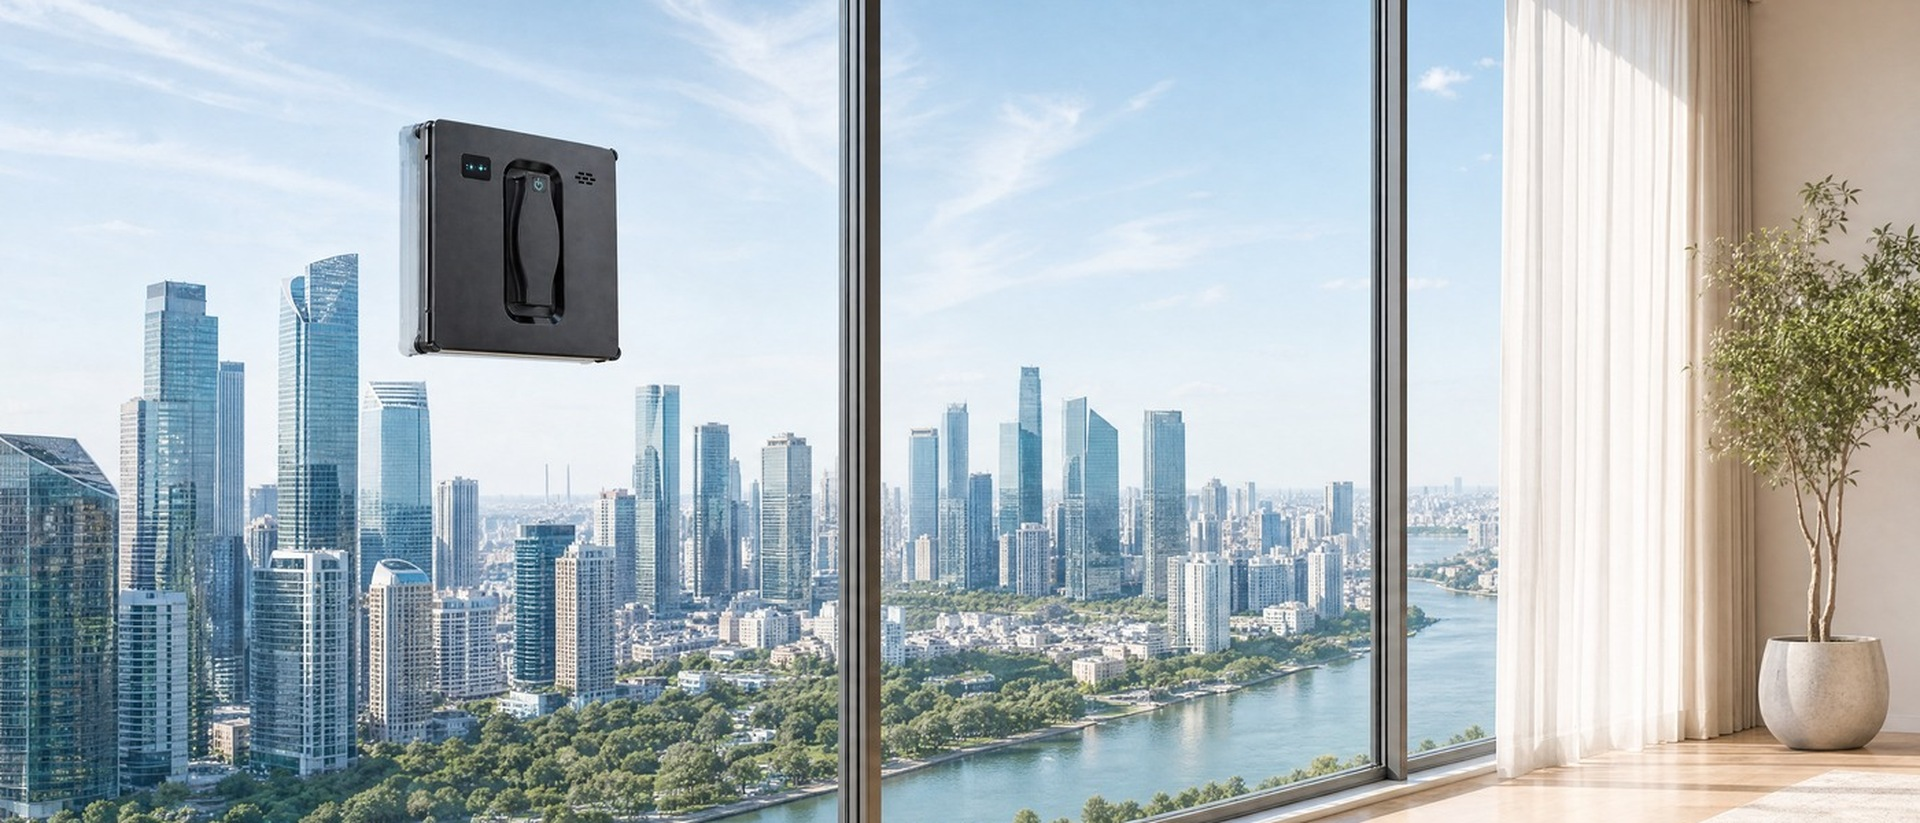
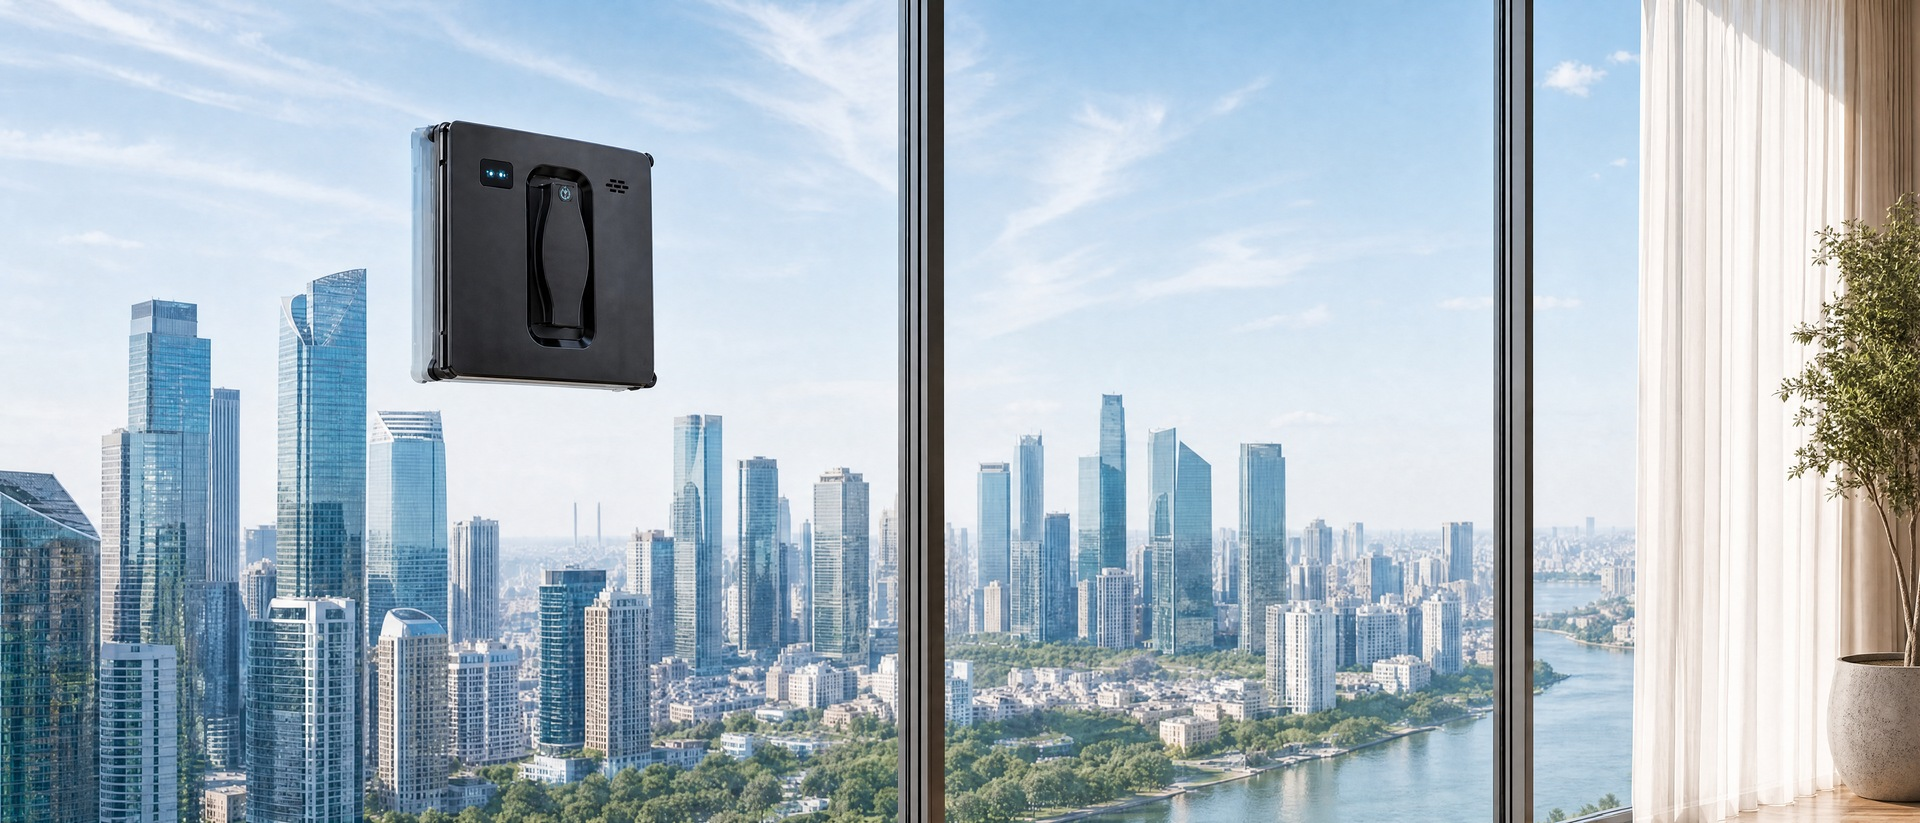
fix(slides): слайд 3 ПК - детализация робота + план ближе на 10%
Гена: вид ок, можно +10%, но детализация робота плохая (следствие апскейла кропа).
Пайплайн: кроп реалистичного исходника ещё на 10% туже -> прогон через gpt_image_2
4k с фиксацией композиции и размера робота, промпт на чёткий премиум-рендер.
Робот теперь резкий: фактура, ручка, кнопка, индикаторы, окантовка, гусеницы.
Размер робота НЕ раздут. Ресайз 1920x823. В тему Shopify + ?v=.

diff --git a/preview-live.html b/preview-live.html
@@ -57,40 +57,40 @@
 <section class="glide glide-hero" data-glide-hero data-autoplay-ms="6000" style="background:#0b1418">
   <div class="glide-slides" data-glide-track>
       <div class="glide-slide is-active" data-glide-slide>
-        <div class="glide-slide-bg" style="--img:url('/slides/vacstation.jpg?v=1788423299');--img-m:url('/slides/vacstation-m.jpg?v=1788423299')"></div>
-        <img class="glide-slide-img glide-slide-img--m" src="/slides/vacstation-m.jpg?v=1788423299" alt="" loading="lazy">
+        <div class="glide-slide-bg" style="--img:url('/slides/vacstation.jpg?v=1788423701');--img-m:url('/slides/vacstation-m.jpg?v=1788423701')"></div>
+        <img class="glide-slide-img glide-slide-img--m" src="/slides/vacstation-m.jpg?v=1788423701" alt="" loading="lazy">
         <div class="glide-wrap"><div class="glide-slide-inner">
           <span class="glide-eyebrow">GlideHome Vac Station</span><h2>It empties itself. And washes its own mops</h2><p>Auto-empty, hot-water mop wash and dry — weeks of hands-off cleaning.</p>
           <div class="glide-slide-cta"><a class="glide-btn glide-btn--primary glide-btn--lg" href="#">Shop Vac Station</a><a class="glide-btn glide-btn--on-dark" href="#">See the station</a></div>
         </div></div>
       </div>
       <div class="glide-slide" data-glide-slide>
-        <div class="glide-slide-bg" style="--img:url('/slides/vac.jpg?v=1788423299');--img-m:url('/slides/vac-m.jpg?v=1788423299')"></div>
-        <img class="glide-slide-img glide-slide-img--m" src="/slides/vac-m.jpg?v=1788423299" alt="" loading="lazy">
+        <div class="glide-slide-bg" style="--img:url('/slides/vac.jpg?v=1788423701');--img-m:url('/slides/vac-m.jpg?v=1788423701')"></div>
+        <img class="glide-slide-img glide-slide-img--m" src="/slides/vac-m.jpg?v=1788423701" alt="" loading="lazy">
         <div class="glide-wrap"><div class="glide-slide-inner">
           <span class="glide-eyebrow">GlideHome Vac Slim</span><h2>Now GlideHome does your floors too</h2><p>A slim robot vacuum that sweeps, vacuums and mops in one pass. Maps the room, avoids obstacles.</p>
           <div class="glide-slide-cta"><a class="glide-btn glide-btn--primary glide-btn--lg" href="#">Shop the vacuum</a></div>
         </div></div>
       </div>
       <div class="glide-slide" data-glide-slide>
-        <div class="glide-slide-bg" style="--img:url('/slides/windowpro.jpg?v=1788423299');--img-m:url('/slides/windowpro-m.jpg?v=1788423299')"></div>
-        <img class="glide-slide-img glide-slide-img--m" src="/slides/windowpro-m.jpg?v=1788423299" alt="" loading="lazy">
+        <div class="glide-slide-bg" style="--img:url('/slides/windowpro.jpg?v=1788423701');--img-m:url('/slides/windowpro-m.jpg?v=1788423701')"></div>
+        <img class="glide-slide-img glide-slide-img--m" src="/slides/windowpro-m.jpg?v=1788423701" alt="" loading="lazy">
         <div class="glide-wrap"><div class="glide-slide-inner">
           <span class="glide-eyebrow">GlideHome Window Pro</span><h2>Full-height glass, cleaned on a planned path</h2><p>AI route mapping, edge detection and a climbing-grade safety line — it holds the pane and never misses a spot.</p>
           <div class="glide-slide-cta"><a class="glide-btn glide-btn--primary glide-btn--lg" href="#">Explore window robots</a></div>
         </div></div>
       </div>
       <div class="glide-slide" data-glide-slide>
-        <div class="glide-slide-bg" style="--img:url('/slides/stickvac.jpg?v=1788423299');--img-m:url('/slides/stickvac-m.jpg?v=1788423299')"></div>
-        <img class="glide-slide-img glide-slide-img--m" src="/slides/stickvac-m.jpg?v=1788423299" alt="" loading="lazy">
+        <div class="glide-slide-bg" style="--img:url('/slides/stickvac.jpg?v=1788423701');--img-m:url('/slides/stickvac-m.jpg?v=1788423701')"></div>
+        <img class="glide-slide-img glide-slide-img--m" src="/slides/stickvac-m.jpg?v=1788423701" alt="" loading="lazy">
         <div class="glide-wrap"><div class="glide-slide-inner">
           <span class="glide-eyebrow">GlideHome Stick V400</span><h2>Cordless power that empties itself</h2><p>190 AW suction, 50 minutes of runtime and a self-emptying dock — grab it and go, put it back clean.</p>
           <div class="glide-slide-cta"><a class="glide-btn glide-btn--primary glide-btn--lg" href="#">Shop Stick V400</a></div>
         </div></div>
       </div>
       <div class="glide-slide" data-glide-slide>
-        <div class="glide-slide-bg" style="--img:url('/slides/antimite.jpg?v=1788423299');--img-m:url('/slides/antimite-m.jpg?v=1788423299')"></div>
-        <img class="glide-slide-img glide-slide-img--m" src="/slides/antimite-m.jpg?v=1788423299" alt="" loading="lazy">
+        <div class="glide-slide-bg" style="--img:url('/slides/antimite.jpg?v=1788423701');--img-m:url('/slides/antimite-m.jpg?v=1788423701')"></div>
+        <img class="glide-slide-img glide-slide-img--m" src="/slides/antimite-m.jpg?v=1788423701" alt="" loading="lazy">
         <div class="glide-wrap"><div class="glide-slide-inner">
           <span class="glide-eyebrow">GlideHome Mite Pro</span><h2>A deeper clean for the bed you spend a third of your life in</h2><p>Tapping, UV, 15,500 Pa suction and warm-air drying — with a live dust-mite readout on the display.</p>
           <div class="glide-slide-cta"><a class="glide-btn glide-btn--primary glide-btn--lg" href="#">Shop Mite Pro</a></div>
@@ -102,13 +102,13 @@
   <div class="glide-dots" data-glide-dots></div>
 </section>
 <section class="glide glide-cats-section"><div class="glide-wrap"><div class="glide-cats">
-      <a class="glide-cat" href="#"><div class="glide-cat-art" style="background-image:url('cats/window.jpg?v=1788423299')"></div>
+      <a class="glide-cat" href="#"><div class="glide-cat-art" style="background-image:url('cats/window.jpg?v=1788423701')"></div>
       <div class="glide-cat-body"><h3>Window Robots</h3><span>Climbs the glass, cleans corner to corner</span><span class="glide-cat-go">Shop window robots →</span></div></a>
-      <a class="glide-cat" href="#"><div class="glide-cat-art" style="background-image:url('cats/vacuum.jpg?v=1788423299')"></div>
+      <a class="glide-cat" href="#"><div class="glide-cat-art" style="background-image:url('cats/vacuum.jpg?v=1788423701')"></div>
       <div class="glide-cat-body"><h3>Robot Vacuums</h3><span>Sweeps, vacuums and mops in one pass</span><span class="glide-cat-go">Shop robot vacuums →</span></div></a>
-      <a class="glide-cat" href="#"><div class="glide-cat-art" style="background-image:url('cats/scrubber.jpg?v=1788423299')"></div>
+      <a class="glide-cat" href="#"><div class="glide-cat-art" style="background-image:url('cats/scrubber.jpg?v=1788423701')"></div>
       <div class="glide-cat-body"><h3>Floor Scrubbers</h3><span>Washes and dries hard floors in one pass</span><span class="glide-cat-go">Shop scrubbers →</span></div></a>
-      <a class="glide-cat" href="#"><div class="glide-cat-art" style="background-image:url('cats/handheld.jpg?v=1788423299')"></div>
+      <a class="glide-cat" href="#"><div class="glide-cat-art" style="background-image:url('cats/handheld.jpg?v=1788423701')"></div>
       <div class="glide-cat-body"><h3>Anti-Mite & Handheld</h3><span>Deep-clean beds, sofas and floors</span><span class="glide-cat-go">Shop handheld →</span></div></a>
 </div></div></section>
 <script src="shopify/glide-home.js" defer></script>

diff --git a/preview-shopify.html b/preview-shopify.html
@@ -57,40 +57,40 @@
 <section class="glide glide-hero" data-glide-hero data-autoplay-ms="6000" style="background:#0b1418">
   <div class="glide-slides" data-glide-track>
       <div class="glide-slide is-active" data-glide-slide>
-        <div class="glide-slide-bg" style="--img:url('/slides/vacstation.jpg?v=1788423299');--img-m:url('/slides/vacstation-m.jpg?v=1788423299')"></div>
-        <img class="glide-slide-img glide-slide-img--m" src="/slides/vacstation-m.jpg?v=1788423299" alt="" loading="lazy">
+        <div class="glide-slide-bg" style="--img:url('/slides/vacstation.jpg?v=1788423701');--img-m:url('/slides/vacstation-m.jpg?v=1788423701')"></div>
+        <img class="glide-slide-img glide-slide-img--m" src="/slides/vacstation-m.jpg?v=1788423701" alt="" loading="lazy">
         <div class="glide-wrap"><div class="glide-slide-inner">
           <span class="glide-eyebrow">GlideHome Vac Station</span><h2>It empties itself. And washes its own mops</h2><p>Auto-empty, hot-water mop wash and dry — weeks of hands-off cleaning.</p>
           <div class="glide-slide-cta"><a class="glide-btn glide-btn--primary glide-btn--lg" href="#">Shop Vac Station</a><a class="glide-btn glide-btn--on-dark" href="#">See the station</a></div>
         </div></div>
       </div>
       <div class="glide-slide" data-glide-slide>
-        <div class="glide-slide-bg" style="--img:url('/slides/vac.jpg?v=1788423299');--img-m:url('/slides/vac-m.jpg?v=1788423299')"></div>
-        <img class="glide-slide-img glide-slide-img--m" src="/slides/vac-m.jpg?v=1788423299" alt="" loading="lazy">
+        <div class="glide-slide-bg" style="--img:url('/slides/vac.jpg?v=1788423701');--img-m:url('/slides/vac-m.jpg?v=1788423701')"></div>
+        <img class="glide-slide-img glide-slide-img--m" src="/slides/vac-m.jpg?v=1788423701" alt="" loading="lazy">
         <div class="glide-wrap"><div class="glide-slide-inner">
           <span class="glide-eyebrow">GlideHome Vac Slim</span><h2>Now GlideHome does your floors too</h2><p>A slim robot vacuum that sweeps, vacuums and mops in one pass. Maps the room, avoids obstacles.</p>
           <div class="glide-slide-cta"><a class="glide-btn glide-btn--primary glide-btn--lg" href="#">Shop the vacuum</a></div>
         </div></div>
       </div>
       <div class="glide-slide" data-glide-slide>
-        <div class="glide-slide-bg" style="--img:url('/slides/windowpro.jpg?v=1788423299');--img-m:url('/slides/windowpro-m.jpg?v=1788423299')"></div>
-        <img class="glide-slide-img glide-slide-img--m" src="/slides/windowpro-m.jpg?v=1788423299" alt="" loading="lazy">
+        <div class="glide-slide-bg" style="--img:url('/slides/windowpro.jpg?v=1788423701');--img-m:url('/slides/windowpro-m.jpg?v=1788423701')"></div>
+        <img class="glide-slide-img glide-slide-img--m" src="/slides/windowpro-m.jpg?v=1788423701" alt="" loading="lazy">
         <div class="glide-wrap"><div class="glide-slide-inner">
           <span class="glide-eyebrow">GlideHome Window Pro</span><h2>Full-height glass, cleaned on a planned path</h2><p>AI route mapping, edge detection and a climbing-grade safety line — it holds the pane and never misses a spot.</p>
           <div class="glide-slide-cta"><a class="glide-btn glide-btn--primary glide-btn--lg" href="#">Explore window robots</a></div>
         </div></div>
       </div>
       <div class="glide-slide" data-glide-slide>
-        <div class="glide-slide-bg" style="--img:url('/slides/stickvac.jpg?v=1788423299');--img-m:url('/slides/stickvac-m.jpg?v=1788423299')"></div>
-        <img class="glide-slide-img glide-slide-img--m" src="/slides/stickvac-m.jpg?v=1788423299" alt="" loading="lazy">
+        <div class="glide-slide-bg" style="--img:url('/slides/stickvac.jpg?v=1788423701');--img-m:url('/slides/stickvac-m.jpg?v=1788423701')"></div>
+        <img class="glide-slide-img glide-slide-img--m" src="/slides/stickvac-m.jpg?v=1788423701" alt="" loading="lazy">
         <div class="glide-wrap"><div class="glide-slide-inner">
           <span class="glide-eyebrow">GlideHome Stick V400</span><h2>Cordless power that empties itself</h2><p>190 AW suction, 50 minutes of runtime and a self-emptying dock — grab it and go, put it back clean.</p>
           <div class="glide-slide-cta"><a class="glide-btn glide-btn--primary glide-btn--lg" href="#">Shop Stick V400</a></div>
         </div></div>
       </div>
       <div class="glide-slide" data-glide-slide>
-        <div class="glide-slide-bg" style="--img:url('/slides/antimite.jpg?v=1788423299');--img-m:url('/slides/antimite-m.jpg?v=1788423299')"></div>
-        <img class="glide-slide-img glide-slide-img--m" src="/slides/antimite-m.jpg?v=1788423299" alt="" loading="lazy">
+        <div class="glide-slide-bg" style="--img:url('/slides/antimite.jpg?v=1788423701');--img-m:url('/slides/antimite-m.jpg?v=1788423701')"></div>
+        <img class="glide-slide-img glide-slide-img--m" src="/slides/antimite-m.jpg?v=1788423701" alt="" loading="lazy">
         <div class="glide-wrap"><div class="glide-slide-inner">
           <span class="glide-eyebrow">GlideHome Mite Pro</span><h2>A deeper clean for the bed you spend a third of your life in</h2><p>Tapping, UV, 15,500 Pa suction and warm-air drying — with a live dust-mite readout on the display.</p>
           <div class="glide-slide-cta"><a class="glide-btn glide-btn--primary glide-btn--lg" href="#">Shop Mite Pro</a></div>
@@ -102,13 +102,13 @@
   <div class="glide-dots" data-glide-dots></div>
 </section>
 <section class="glide glide-cats-section"><div class="glide-wrap"><div class="glide-cats">
-      <a class="glide-cat" href="#"><div class="glide-cat-art" style="background-image:url('cats/window.jpg?v=1788423299')"></div>
+      <a class="glide-cat" href="#"><div class="glide-cat-art" style="background-image:url('cats/window.jpg?v=1788423701')"></div>
       <div class="glide-cat-body"><h3>Window Robots</h3><span>Climbs the glass, cleans corner to corner</span><span class="glide-cat-go">Shop window robots →</span></div></a>
-      <a class="glide-cat" href="#"><div class="glide-cat-art" style="background-image:url('cats/vacuum.jpg?v=1788423299')"></div>
+      <a class="glide-cat" href="#"><div class="glide-cat-art" style="background-image:url('cats/vacuum.jpg?v=1788423701')"></div>
       <div class="glide-cat-body"><h3>Robot Vacuums</h3><span>Sweeps, vacuums and mops in one pass</span><span class="glide-cat-go">Shop robot vacuums →</span></div></a>
-      <a class="glide-cat" href="#"><div class="glide-cat-art" style="background-image:url('cats/scrubber.jpg?v=1788423299')"></div>
+      <a class="glide-cat" href="#"><div class="glide-cat-art" style="background-image:url('cats/scrubber.jpg?v=1788423701')"></div>
       <div class="glide-cat-body"><h3>Floor Scrubbers</h3><span>Washes and dries hard floors in one pass</span><span class="glide-cat-go">Shop scrubbers →</span></div></a>
-      <a class="glide-cat" href="#"><div class="glide-cat-art" style="background-image:url('cats/handheld.jpg?v=1788423299')"></div>
+      <a class="glide-cat" href="#"><div class="glide-cat-art" style="background-image:url('cats/handheld.jpg?v=1788423701')"></div>
       <div class="glide-cat-body"><h3>Anti-Mite & Handheld</h3><span>Deep-clean beds, sofas and floors</span><span class="glide-cat-go">Shop handheld →</span></div></a>
 </div></div></section>
 <script src="shopify/glide-home.js" defer></script>
